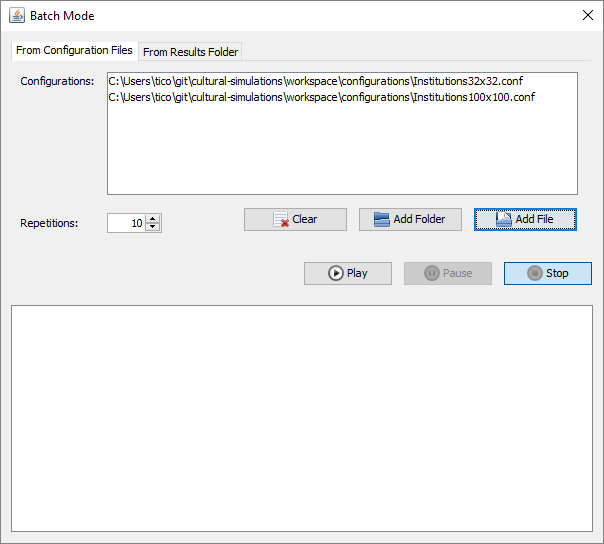
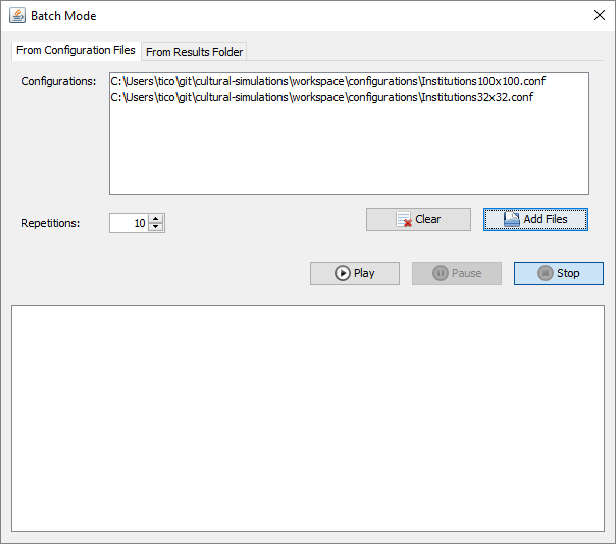
fixing batchmode for wiki purposes

diff --git a/src/simulator/gui/BatchMode.java b/src/simulator/gui/BatchMode.java
@@ -164,13 +164,13 @@ public class BatchMode extends JDialog implements Notifiable {
 		}
 		jfc_configurations.setCurrentDirectory(conf_dir);
 
-		File[] directoryListing = jfc_configurations.getCurrentDirectory().listFiles();
-		if (directoryListing != null) {
-			for (File child : directoryListing) {
-				conf_list.addElement(child.getAbsolutePath());
-				file_list.add(child.getAbsolutePath());
-			}
-		}
+//		File[] directoryListing = jfc_configurations.getCurrentDirectory().listFiles();
+//		if (directoryListing != null) {
+//			for (File child : directoryListing) {
+//				conf_list.addElement(child.getAbsolutePath());
+//				file_list.add(child.getAbsolutePath());
+//			}
+//		}
 
 		tab_conf_file = new JPanel();
 		tp_batch_mode.addTab("From Configuration Files", null, tab_conf_file, null);
@@ -185,7 +185,7 @@ public class BatchMode extends JDialog implements Notifiable {
 		lblRepetitions.setBounds(10, 155, 70, 14);
 		tab_conf_file.add(lblRepetitions);
 
-		JButton btnAddConfigurationFile = new JButton("Add File");
+		JButton btnAddConfigurationFile = new JButton("Add Files");
 		btnAddConfigurationFile.setIcon(new ImageIcon(BatchMode.class.getResource("/simulator/img/document-open.png")));
 		btnAddConfigurationFile.addActionListener(new ActionListener() {
 			public void actionPerformed(ActionEvent e) {
@@ -195,39 +195,20 @@ public class BatchMode extends JDialog implements Notifiable {
 					jfc_configurations.setCurrentDirectory(conf_dir);
 				}
 				jfc_configurations.setFileSelectionMode(JFileChooser.FILES_ONLY);
+				jfc_configurations.setMultiSelectionEnabled(true);
 				if (jfc_configurations.showOpenDialog(contentPane) == JFileChooser.APPROVE_OPTION) {
-					conf_list.addElement(jfc_configurations.getSelectedFile().getAbsolutePath());
-					file_list.add(jfc_configurations.getSelectedFile().getAbsolutePath());
+					File[] files = jfc_configurations.getSelectedFiles();
+					for (int i = 0; i < files.length; i++) {
+						conf_list.addElement(files[i].getAbsolutePath());
+						file_list.add(files[i].getAbsolutePath());
+						
+					}
+					
 				}
 			}
 		});
 		btnAddConfigurationFile.setBounds(462, 146, 105, 25);
 		tab_conf_file.add(btnAddConfigurationFile);
-
-		JButton btnAddFolder = new JButton("Add Folder");
-		btnAddFolder.setIcon(new ImageIcon(BatchMode.class.getResource("/simulator/img/document-open-folder.png")));
-		btnAddFolder.addActionListener(new ActionListener() {
-			public void actionPerformed(ActionEvent arg0) {
-				File conf_dir = new File(Controller.WORKSPACE_DIR + Controller.CONFIGURATIONS_DIR);
-				if (!conf_dir.exists()) {
-					conf_dir.mkdirs();
-					jfc_configurations.setCurrentDirectory(conf_dir);
-				}
-				jfc_configurations.setFileSelectionMode(JFileChooser.DIRECTORIES_ONLY);
-				jfc_configurations.setSelectedFile(conf_dir.getAbsoluteFile());
-				if (jfc_configurations.showOpenDialog(contentPane) == JFileChooser.APPROVE_OPTION) {
-					File[] directoryListing = jfc_configurations.getSelectedFile().listFiles();
-					if (directoryListing != null) {
-						for (File child : directoryListing) {
-							conf_list.addElement(child.getAbsolutePath());
-							file_list.add(child.getAbsolutePath());
-						}
-					}
-				}
-			}
-		});
-		btnAddFolder.setBounds(347, 146, 105, 25);
-		tab_conf_file.add(btnAddFolder);
 
 		JButton btn_clearlist = new JButton("Clear");
 		btn_clearlist.setIcon(new ImageIcon(BatchMode.class.getResource("/simulator/img/edit-clear-list.png")));
@@ -237,7 +218,7 @@ public class BatchMode extends JDialog implements Notifiable {
 				file_list.clear();
 			}
 		});
-		btn_clearlist.setBounds(232, 146, 105, 25);
+		btn_clearlist.setBounds(347, 146, 105, 25);
 		tab_conf_file.add(btn_clearlist);
 
 		JScrollPane scrollPane_1 = new JScrollPane();
